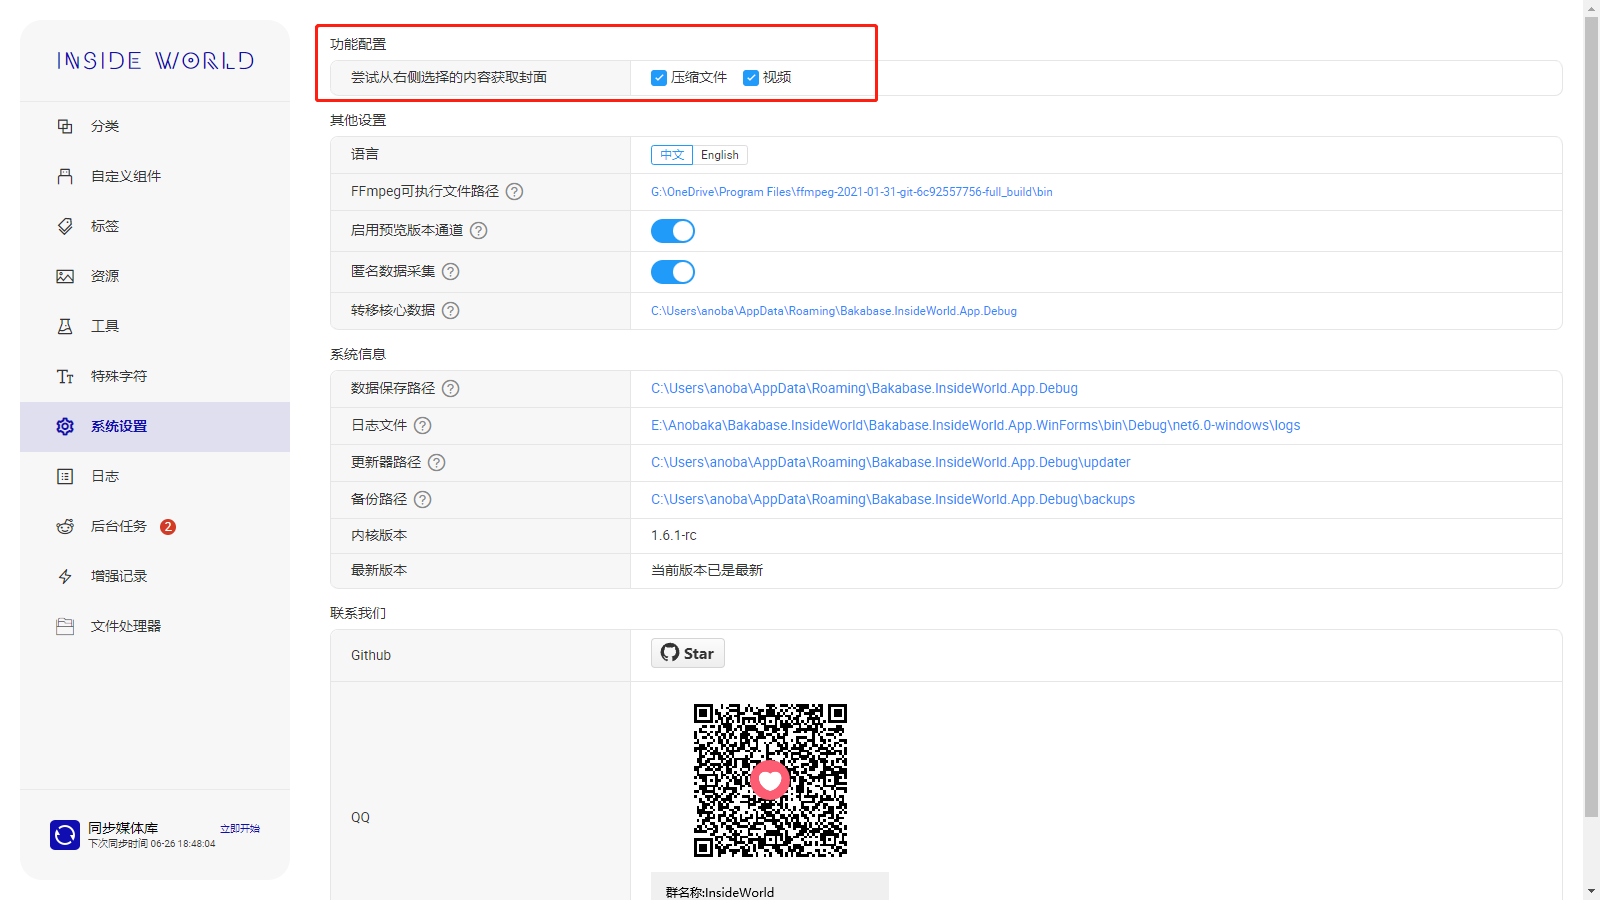
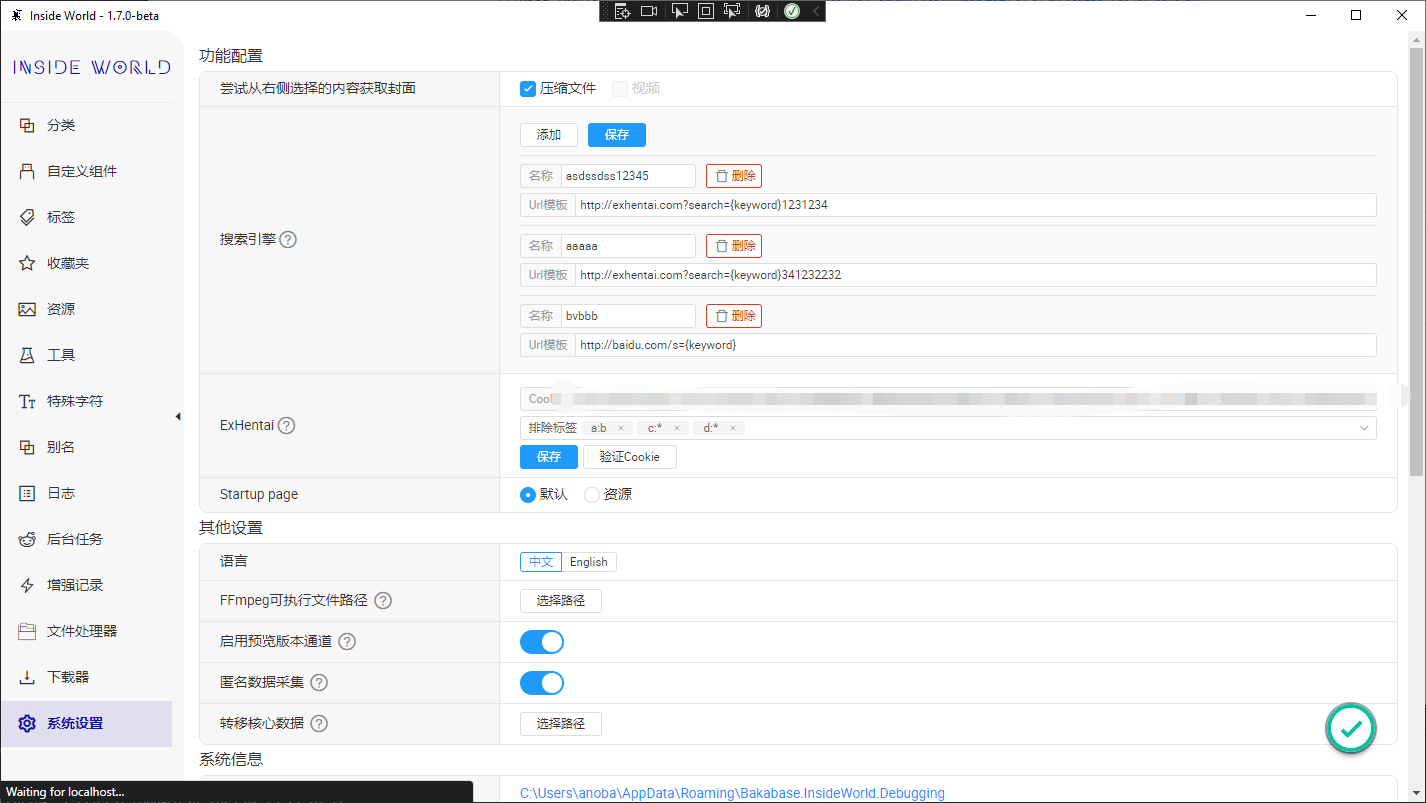
add descriptions for v1.7.0

diff --git a/docs/doc/downloader.md b/docs/doc/downloader.md
@@ -1,0 +1,29 @@
+在1.7.0版本以后，可以使用下载器进行一些资源搜刮
+
+![downloader-1](/img/downloader-1.png)
+
+**下载任务重要说明**
+
++ 如果任务处于`已停用`状态，则该任务在任何情况下均不会自动启动；
++ 如果任务频繁**失败**，自动重启的间隔会逐渐变长；
++ 在首次使用时建议通过`全局配置`设置请求间隔等内容，如果你在下载的过程中还需要浏览对应站点，请降低请求间隔和请求线程数量；
+
+**创建下载任务**
+
+![downloader-2](/img/downloader-2.png)
+
+每类下载任务包含以下属性：[下载任务定义](https://github.com/anobaka/InsideWorld/issues/309)
+
++ `下载路径`: 用于存放下载文件的根目录。
++ `间隔`: 下载内容的定期检查间隔。如果你的下载任务是一次性、没有变化的，则无需设置该项；如果你下载的内容动态更新的（比如收藏夹需要定期追加下载内容等），则可以按需设置该项。
++ `页码`: 从指定页码开始或结束下载，不填写则下载全部内容。
++ `检查点`: 记录上次下载进度，每类下载任务不同，一般情况下请勿私自调整。
++ `全局配置`: 包含`Cookie`，`请求间隔`，`默认下载路径`，`命名规则`等配置
+
+部分下载任务类型包含特殊属性：
+
++ 哔哩哔哩：需要选择对应的收藏夹
++ ExHentai：
+  + 如果是单个作品，则录入完整链接即可
+  + 如果是已关注内容，则可以不填任何链接
+  + 如果是列表内容（如搜索结果等），则录入当前链接即可

diff --git a/docs/doc/category-setup-wizard.md b/docs/doc/category-setup-wizard.md
@@ -1,0 +1,7 @@
+在1.7.0以后，可以使用配置向导进行分类配置，以下仅展示部分流程，具体流程和说明以软件内提示为准。
+
+![category-setup-wizard-1](/img/category-setup-wizard-1.png)
+![category-setup-wizard-2](/img/category-setup-wizard-2.png)
+![category-setup-wizard-3](/img/category-setup-wizard-3.png)
+![category-setup-wizard-4](/img/category-setup-wizard-4.png)
+![category-setup-wizard-5](/img/category-setup-wizard-5.png)

diff --git a/docs/doc/resource-bulk-operations.md b/docs/doc/resource-bulk-operations.md
@@ -1,0 +1,10 @@
+可以通过资源列表右上角进行批量选择资源，选择完成后可以进行以下操作：
+
+> 在v1.7.0版本以后，可以通过shift进行多选
+
+1. **在v1.6.1版本以后，为方便管理资源，可以批量移动资源至其他媒体库**
+
+![resource-move-1](/img/resource-move-1.png)
+![resource-move-1](/img/resource-move-2.png)
+![resource-move-1](/img/resource-move-3.png)
+![resource-move-1](/img/resource-move-4.png)

diff --git a/docs/doc/resource-detail-lists.md b/docs/doc/resource-detail-lists.md
@@ -1,0 +1,11 @@
+如果当前资源有关联的**子资源**，则会展示子资源列表
+
+todo:
+![resource-detail-lists-1](/img/resource-detail-lists-1.png)
+
++ 如果当前资源有对应的文件，则会展示文件列表。
++ 双击文件夹将会进入子文件夹的文件列表。
++ 可以在右侧设置缩放比例。
+
+todo:
+![resource-detail-lists-2](/img/resource-detail-lists-2.png)

diff --git a/docs/doc/internal-player.md b/docs/doc/internal-player.md
@@ -1,0 +1,6 @@
+内置播放器可以播放常见的音视频和文本文件，可以通过[播放列表](#resource-playlist)添加文件
+
+在v1.7.0版本以后，内置播放器开始支持播放压缩文件的内容，并且可以通过左上角的图标展开当前播放文件列表
+
+![internal-player](/img/internal-player-1.png)
+![internal-player](/img/internal-player-2.png)

diff --git a/docs/doc/tag-bulk-delete.md b/docs/doc/tag-bulk-delete.md
@@ -1,0 +1,11 @@
+可以在标签管理界面的右上角找到批量删除按钮
+
+![tag-bulk-delete-1](/img/tag-bulk-delete-1.png)
+
+然后左键选择需要删除的标签，选择完成后再次点击右上角的删除按钮
+
+![tag-bulk-delete-2](/img/tag-bulk-delete-2.png)
+
+确认删除即可
+
+![tag-bulk-delete-3](/img/tag-bulk-delete-3.png)

diff --git a/docs/doc/configuration-function.md b/docs/doc/configuration-function.md
@@ -1,3 +1,4 @@
-这里可以增加封面来源，系统资源（cpu、内存等）占用程度从左往右从少变多
+1. 这里可以增加封面来源，系统资源（cpu、内存等）占用程度从左往右从少变多
+2. 在1.7.0版本以后，可以设置启动界面
 
 ![configuration-function](/img/configuration-function.png)

diff --git a/docs/doc/resource-playlist.md b/docs/doc/resource-playlist.md
@@ -4,3 +4,6 @@
 + 可以加入一个资源
 + 可以加入一个资源的一个文件
 + 可以为音视频增加播放时间段
+
+![resource-playlist](/img/resource-playlist-1.png)
+![resource-playlist](/img/resource-playlist-2.png)

diff --git a/docs/doc/file-mover.md b/docs/doc/file-mover.md
@@ -1,0 +1,3 @@
+可以设置一批源文件路径以及目标文件路径，本程序将会自动将源文件路径内的文件(夹)移动至目标路径。
+
+![file-mover](/img/file-mover.png)

diff --git a/docs/doc/exhentai-downloader.md b/docs/doc/exhentai-downloader.md
@@ -1,1 +1,3 @@
 填写对应信息后可以自动下载exhentai的资源，下载完成的资源链接会被移除
+
+在1.7.0版本以后，该功能已被转移至[下载器](#downloader)

diff --git a/docs/doc/insider.md b/docs/doc/insider.md
@@ -1,0 +1,3 @@
+Insider小助手会以**全局悬浮窗**的形式显示当前运行的后台任务的状态，并提供一些快捷操作。
+
+![insider](/img/insider.png)

diff --git a/docs/doc/category-library-path-segments.md b/docs/doc/category-library-path-segments.md
@@ -1,0 +1,3 @@
+在1.7.0版本以后，你可以为媒体库根目录与资源文件之间的每一级目录配置属性。
+
+![library](/img/category-library-3.png)
